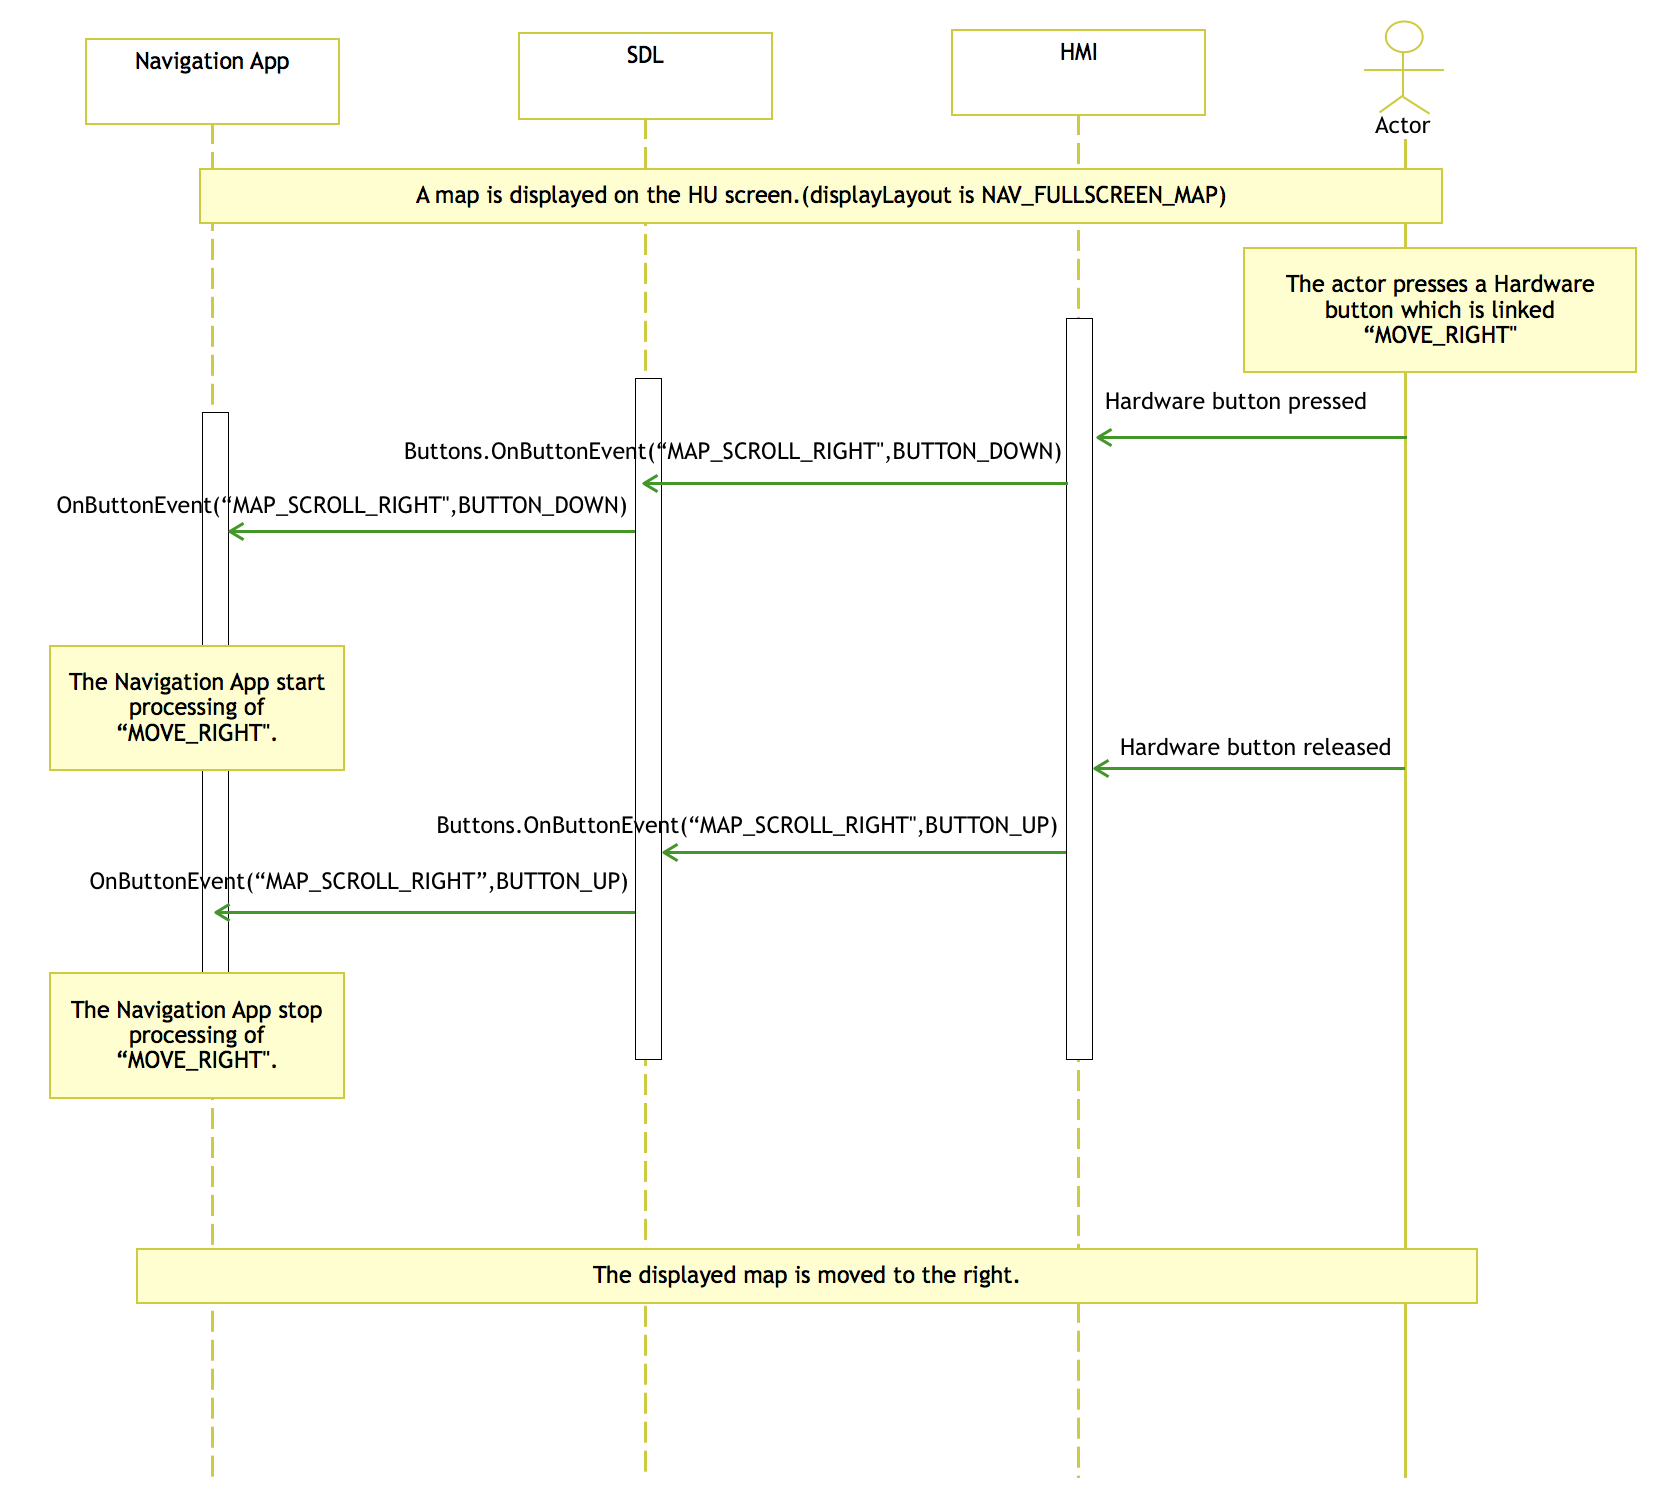
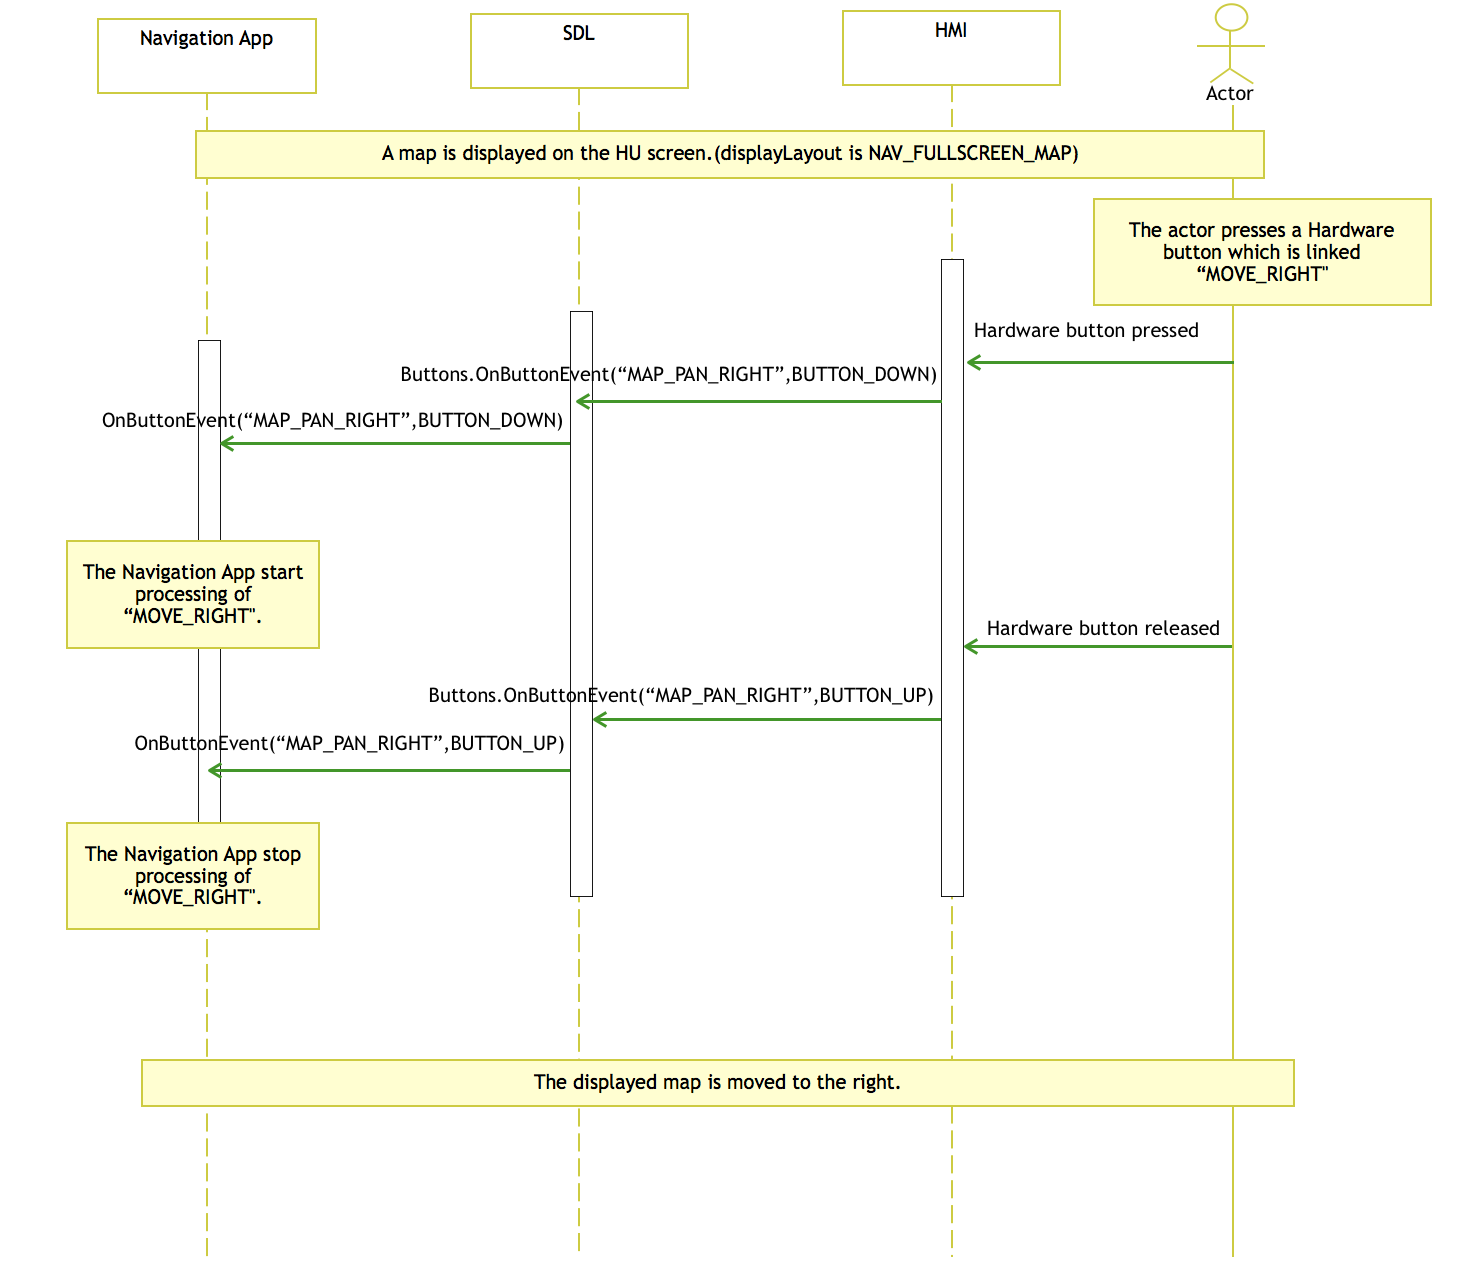
Updated document
1. Changed terminology from Scroll to Pan

Changed region(s): [[0.031, 0.0, 0.9933, 0.9827], [0.031, 0.522, 0.6518, 0.7677], [0.031, 0.3992, 0.2173, 0.522]]

diff --git a/proposals/NNNN-spec-add-ButtonName-to-use-hardware-buttons-with-shortcuts.md b/proposals/NNNN-spec-add-ButtonName-to-use-hardware-buttons-with-shortcuts.md
@@ -22,13 +22,13 @@ When an action is performed by the rotary button, the HU identifies the action a
 - **Rotary button Rotate Left:**
    HU understand this action and trigger the zoom-out function to Navigation app
 - **Rotary button Slide Upward:**
-   HU understand this action and trigger the scroll-up function to Navigation app
+   HU understand this action and trigger the pan-up function to Navigation app
 - **Rotary button Slide Downward:**
-   HU understand this action and trigger the scroll-down function to Navigation app
+   HU understand this action and trigger the pan-down function to Navigation app
 - **Rotary button Slide Leftward:**
-   HU understand this action and trigger the scroll-left function to Navigation app
+   HU understand this action and trigger the pan-left function to Navigation app
 - **Rotary button Slide Rightward:**
-   HU understand this action and trigger the scroll-right function to Navigation app
+   HU understand this action and trigger the pan-right function to Navigation app
 
 In this case the HU is responsible for handling the action from Rotary button and trigger the function to the mobile device.
 
@@ -43,20 +43,20 @@ This function is for zooming in the map when using the Navigation App.
 - **Zoom Out:**
 This function is for zooming out the map when using the Navigation App.
 
-- **Map Scroll Up:**
-This is a function for scrolling up on the map when using the Navigation App.
+- **Map Pan Up:**
+This function is for panning up on the map when using the Navigation App.
 
-- **Map Scroll Down:**
-This function is for scrolling down on the map when using the Navigation App.
+- **Map Pan Down:**
+This function is for panning down on the map when using the Navigation App.
 
-- **Map Scroll Left:**
-This function is for scrolling to the left on the map when using the Navigation App.
+- **Map Pan Left:**
+This function is for panning to the left on the map when using the Navigation App.
 
-- **Map Scroll Right:**
-This function is for scrolling to the right on the map when using the Navigation App.
+- **Map Pan Right:**
+This function is for panning to the right on the map when using the Navigation App.
 
 - **Menu:**
-This function is for displaying the consolidated list of menus in Navigation application. The application supplier need to display all the menu options except map scrolling in a list when menu function is invoked.
+This function is for displaying the consolidated list of menus in Navigation application. The application supplier need to display all the menu options except map panning in a list when menu function is invoked.
 
 - **Move Focus Next Item:**
 This function is for moving the focus to next item on the list screen of the navigation application.
@@ -83,10 +83,10 @@ Functions usage as per display layout is described in the table below,
 |---|---|---|
 |NAVI_FULLSCREEN|ZOOM-IN|Map Zoom-In|
 |NAVI_FULLSCREEN|ZOOM-OUT|Map Zoom-Out|
-|NAVI_FULLSCREEN|MAP_SCROLL_UP|Scrolling up on the map|
-|NAVI_FULLSCREEN|MAP_SCROLL_DOWN|Scrolling down on the map|
-|NAVI_FULLSCREEN|MAP_SCROLL_RIGHT|Scrolling right on the map|
-|NAVI_FULLSCREEN|MAP_SCROLL_LEFT|Scrolling left on the map|
+|NAVI_FULLSCREEN|MAP_PAN_UP|Panning up on the map|
+|NAVI_FULLSCREEN|MAP_PAN_DOWN|Panning down on the map|
+|NAVI_FULLSCREEN|MAP_PAN_RIGHT|Panning right on the map|
+|NAVI_FULLSCREEN|MAP_PAN_LEFT|Panning left on the map|
 |NAVI_FULLSCREEN|DISPLAY_CURRENT_LOCATION|Recenter the current location in Map|
 |NAVI_FULLSCREEN|MENU|Open menu of Navigation application|
 |NAVI_LIST|MOVE_FOCUS_NEXT_ITEM|Moving the focus to next item on the list screen|
@@ -110,7 +110,7 @@ The below sequences depicts the general idea of functions of  **"NAV_FULLSCREEN_
 
 <img src="../assets/proposals/NNNN-Commander_Proposal/menu_sequence.png" width="700">
 
-- ButtonName notification sequence when "MAP_SCROLL_RIGHT" is selected (NAV_FULLSCREEN_MAP)
+- ButtonName notification sequence when "MAP_PAN_RIGHT" is selected (NAV_FULLSCREEN_MAP)
 
 <img src="../assets/proposals/NNNN-Commander_Proposal/move_right_sequence.png" width="700">
 
@@ -133,13 +133,13 @@ The below sequences depicts the general idea of functions of  **"NAV_FULLSCREEN_
   button_enum_name.insert(
       std::make_pair(std::string("ZOOM_OUT"), hmi_apis::Common_ButtonName::ZOOM_OUT));
   button_enum_name.insert(
-      std::make_pair(std::string("MAP_SCROLL_UP"), hmi_apis::Common_ButtonName::MAP_SCROLL_UP));
+      std::make_pair(std::string("MAP_PAN_UP"), hmi_apis::Common_ButtonName::MAP_PAN_UP));
   button_enum_name.insert(
-      std::make_pair(std::string("MAP_SCROLL_DOWN"), hmi_apis::Common_ButtonName::MAP_SCROLL_DOWN));
+      std::make_pair(std::string("MAP_PAN_DOWN"), hmi_apis::Common_ButtonName::MAP_PAN_DOWN));
   button_enum_name.insert(
-      std::make_pair(std::string("MAP_SCROLL_LEFT"), hmi_apis::Common_ButtonName::MAP_SCROLL_LEFT));
+      std::make_pair(std::string("MAP_PAN_LEFT"), hmi_apis::Common_ButtonName::MAP_PAN_LEFT));
   button_enum_name.insert(
-      std::make_pair(std::string("MAP_SCROLL_RIGHT"), hmi_apis::Common_ButtonName::MAP_SCROLL_RIGHT));
+      std::make_pair(std::string("MAP_PAN_RIGHT"), hmi_apis::Common_ButtonName::MAP_PAN_RIGHT));
   button_enum_name.insert(
       std::make_pair(std::string("MOVE_FOCUS_NEXT_ITEM"), hmi_apis::Common_ButtonName::MOVE_FOCUS_NEXT_ITEM));
   button_enum_name.insert(
@@ -179,22 +179,22 @@ The below sequences depicts the general idea of functions of  **"NAV_FULLSCREEN_
             It may be notified when displayLayout is set to "NAV_FULLSCREEN_MAP".
         </warning>
     </element>
-    <element name="MAP_SCROLL_UP">
+    <element name="MAP_PAN_UP">
         <warning>
             It may be notified when displayLayout is set to "NAV_FULLSCREEN_MAP".
         </warning>
     </element>
-    <element name="MAP_SCROLL_DOWN">
+    <element name="MAP_PAN_DOWN">
         <warning>
             It may be notified when displayLayout is set to "NAV_FULLSCREEN_MAP".
         </warning>
     </element>
-    <element name="MAP_SCROLL_LEFT">
+    <element name="MAP_PAN_LEFT">
         <warning>
             It may be notified when displayLayout is set to "NAV_FULLSCREEN_MAP".
         </warning>
     </element>
-    <element name="MAP_SCROLL_RIGHT">
+    <element name="MAP_PAN_RIGHT">
         <warning>
             It may be notified when displayLayout is set to "NAV_FULLSCREEN_MAP".
         </warning>
@@ -218,7 +218,7 @@ The below sequences depicts the general idea of functions of  **"NAV_FULLSCREEN_
         <warning>
             It may be notified when displayLayout is set to "NAV_FULLSCREEN_MAP".
             When this function is notified, it is necessary for the application to consider the function distribution.
-            For example, when this function is notified during map scrolling, it is necessary to display the destination setting item of Menu.
+            For example, when this function is notified during map panning, it is necessary to display the destination setting item of Menu.
         </warning>
     </element>
     <element name="SELECT">
@@ -256,22 +256,22 @@ The below sequences depicts the general idea of functions of  **"NAV_FULLSCREEN_
                 It may be notified when displayLayout is set to "NAV_FULLSCREEN_MAP".
             </warning>
         </element>
-        <element name="MAP_SCROLL_UP" since="x.x">
+        <element name="MAP_PAN_UP" since="x.x">
              <warning>
                 It may be notified when displayLayout is set to "NAV_FULLSCREEN_MAP".
             </warning>
         </element>
-        <element name="MAP_SCROLL_DOWN" since="x.x">
+        <element name="MAP_PAN_DOWN" since="x.x">
             <warning>
                 It may be notified when displayLayout is set to "NAV_FULLSCREEN_MAP".
             </warning>
         </element>
-        <element name="MAP_SCROLL_LEFT" since="x.x">
+        <element name="MAP_PAN_LEFT" since="x.x">
             <warning>
                 It may be notified when displayLayout is set to "NAV_FULLSCREEN_MAP".
             </warning>
         </element>
-        <element name="MAP_SCROLL_RIGHT" since="x.x">
+        <element name="MAP_PAN_RIGHT" since="x.x">
             <warning>
                 It may be notified when displayLayout is set to "NAV_FULLSCREEN_MAP".
             </warning>
@@ -295,7 +295,7 @@ The below sequences depicts the general idea of functions of  **"NAV_FULLSCREEN_
             <warning>
                 It may be notified when displayLayout is set to "NAV_FULLSCREEN_MAP".
                 When this function is notified, it is necessary for the application to consider the function distribution.
-                For example, when this function is notified during map scrolling, it is necessary to display the destination setting item of Menu.
+                For example, when this function is notified during map panning, it is necessary to display the destination setting item of Menu.
             </warning>
         </element>
         <element name="SELECT" since="x.x">
@@ -332,24 +332,24 @@ extern SDLButtonName const SDLButtonNameZoomIn;
 extern SDLButtonName const SDLButtonNameZoomOut;
 
 /**
- * Represents a map scroll up button.
+ * Represents a map pan up button.
  */
-extern SDLButtonName const SDLButtonNameMapScrollUp;
+extern SDLButtonName const SDLButtonNameMapPanUp;
 
 /**
- * Represents a map scroll down button.
+ * Represents a map pan down button.
  */
-extern SDLButtonName const SDLButtonNameMapScrollDown;
+extern SDLButtonName const SDLButtonNameMapPanDown;
 
 /**
- * Represents a map scroll left button.
+ * Represents a map pan left button.
  */
-extern SDLButtonName const SDLButtonNameMapScrollLeft;
+extern SDLButtonName const SDLButtonNameMapPanLeft;
 
 /**
- * Represents a map scroll right button.
+ * Represents a map pan right button.
  */
-extern SDLButtonName const SDLButtonNameMapScrollRight;
+extern SDLButtonName const SDLButtonNameMapPanRight;
 
 /**
  * Represents a move focus next item button.
@@ -385,10 +385,10 @@ extern SDLButtonName const SDLButtonNameSelect;
 SDLButtonName const SDLButtonNameDisplayCurrentLocation = @"DISPLAY_CURRENT_LOCATION";
 SDLButtonName const SDLButtonNameZoomIn = @"ZOOM_IN";
 SDLButtonName const SDLButtonNameZoomOut = @"ZOOM_OUT";
-SDLButtonName const SDLButtonNameMapScrollUp = @"MAP_SCROLL_UP";
-SDLButtonName const SDLButtonNameMapScrollDown = @"MAP_SCROLL_DOWN";
-SDLButtonName const SDLButtonNameMapScrollLeft = @"MAP_SCROLL_LEFT";
-SDLButtonName const SDLButtonNameMapScrollRight = @"MAP_SCROLL_RIGHT";
+SDLButtonName const SDLButtonNameMapPanUp = @"MAP_PAN_UP";
+SDLButtonName const SDLButtonNameMapPanlDown = @"MAP_PAN_DOWN";
+SDLButtonName const SDLButtonNameMapPanLeft = @"MAP_PAN_LEFT";
+SDLButtonName const SDLButtonNameMapPanRight = @"MAP_PAN_RIGHT";
 SDLButtonName const SDLButtonNameMoveFocusUp = @"MOVE_FOCUS_NEXT_ITEM";
 SDLButtonName const SDLButtonNameMoveFocusDown = @"MOVE_FOCUS_PREVIOUS_ITEM";
 SDLButtonName const SDLButtonNameGoBack = @"GO_BACK";
@@ -422,29 +422,29 @@ public enum ButtonName {
      */
     ZOOM_OUT,
     /**
-     * Represents the map scroll up button.
+     * Represents the map pan up button.
      *
      * @since SmartDeviceLink x.x
      */
-    MAP_SCROLL_UP,
+    MAP_PAN_UP,
     /**
-     * Represents the map scroll down button.
+     * Represents the map pan down button.
      *
      * @since SmartDeviceLink x.x
      */
-    MAP_SCROLL_DOWN,
+    MAP_PAN_DOWN,
     /**
-     * Represents the map scroll left button.
+     * Represents the map pan left button.
      *
      * @since SmartDeviceLink x.x
      */
-    MAP_SCROLL_LEFT,
+    MAP_PAN_LEFT,
     /**
-     * Represents the map scroll right button.
+     * Represents the map pan right button.
      *
      * @since SmartDeviceLink x.x
      */
-    MAP_SCROLL_RIGHT,
+    MAP_PAN_RIGHT,
     /**
      * Represents the move focus up button.
      *
